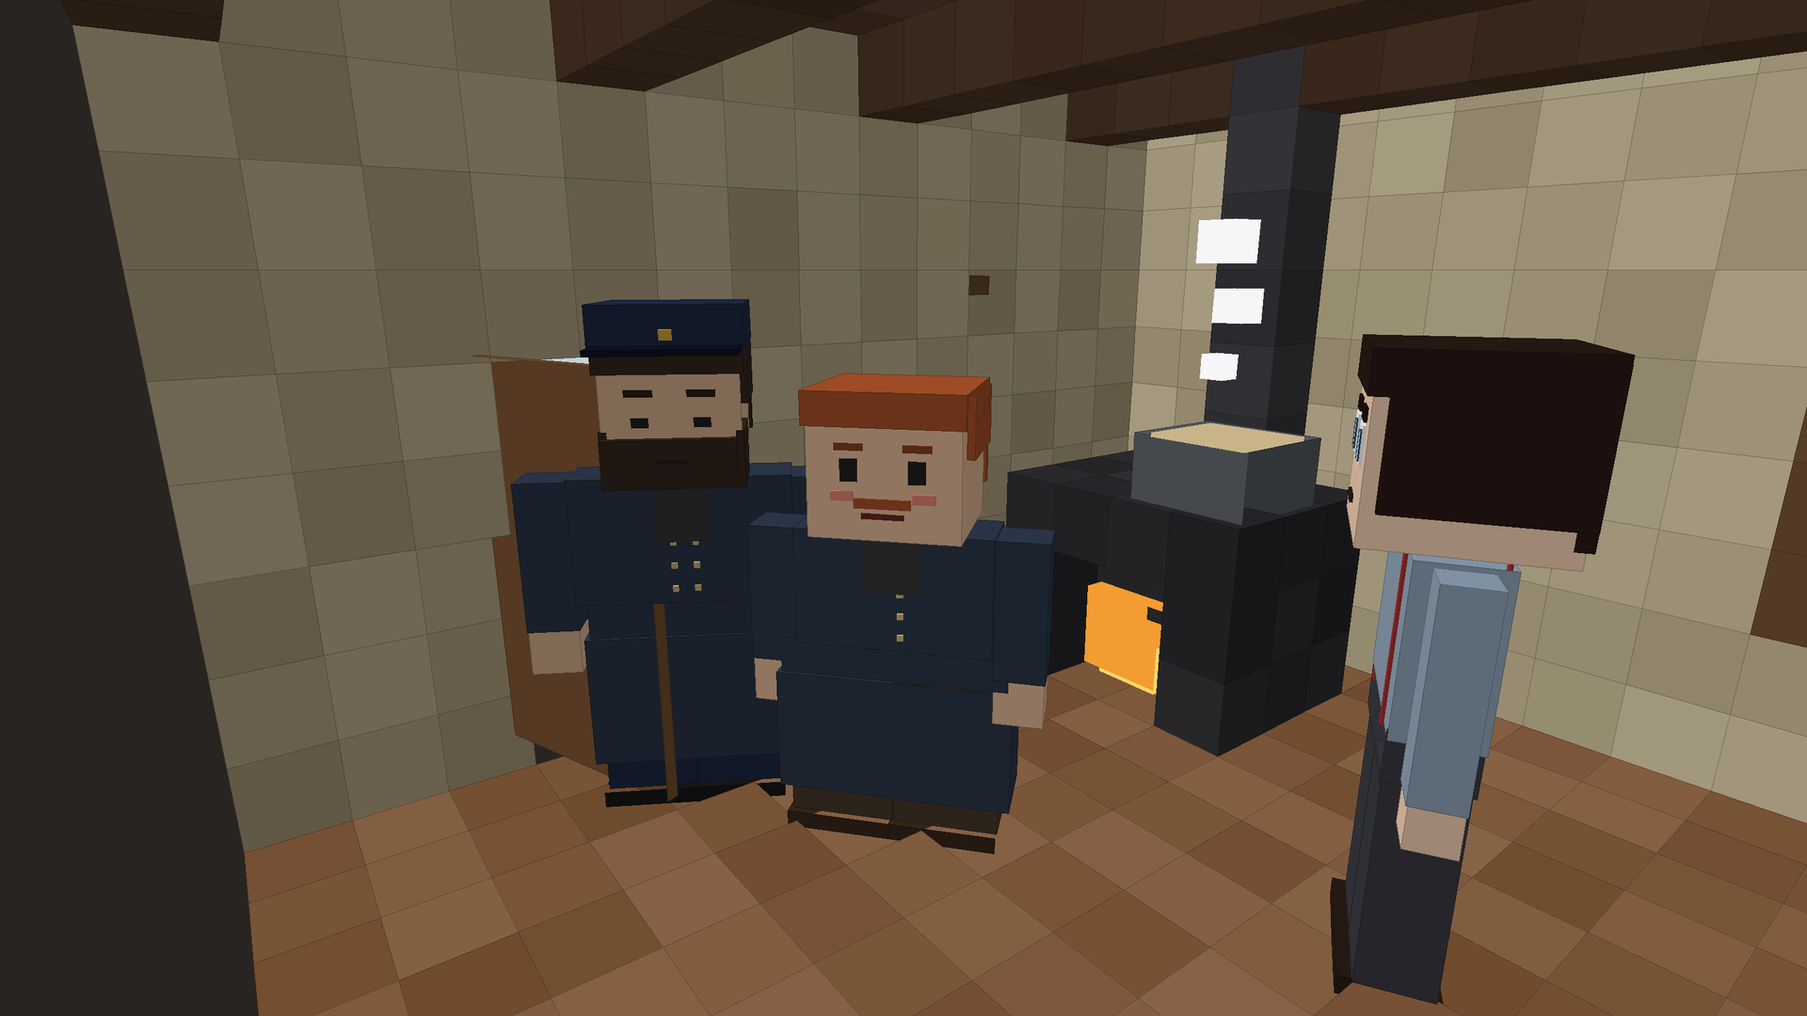
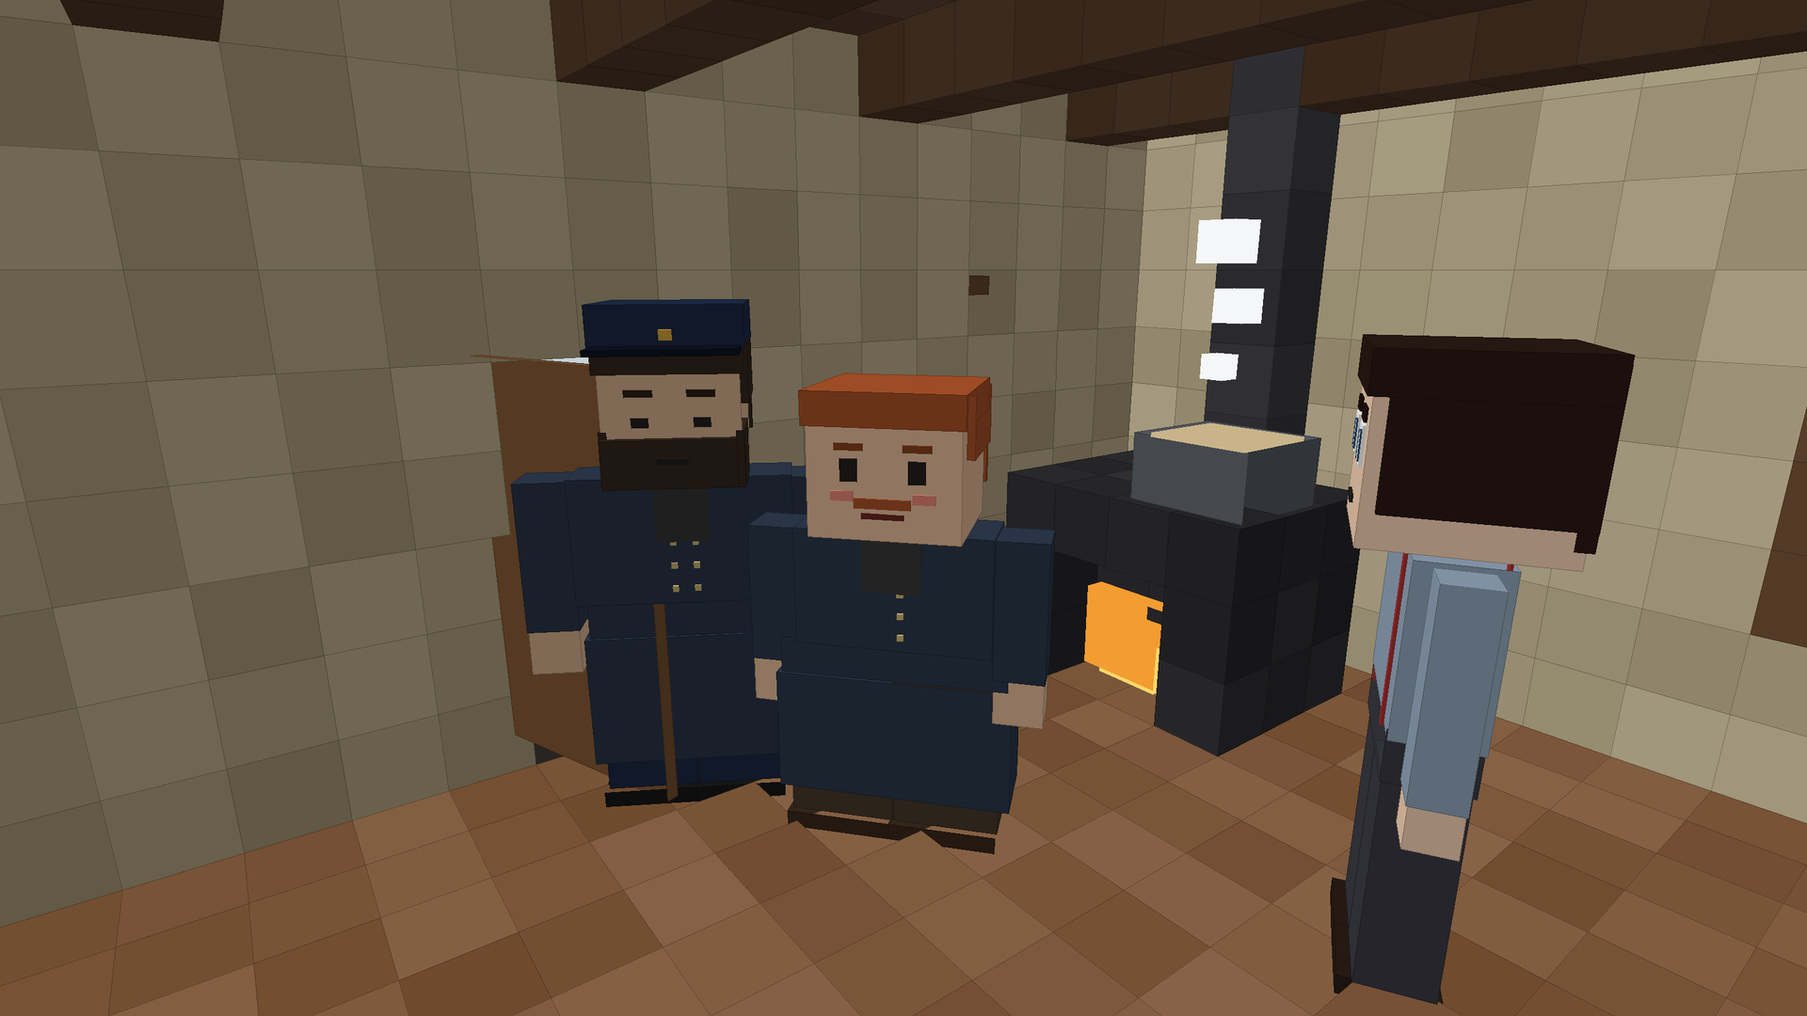
입체애니_검수.py: 입체 블록 장면 검수 규칙 + 자동 검사(떠 있음·묻힘·바다 위·등 보임·가려짐·잘림·방 밖 빈 곳·한 색 화면) + 3순간·인물 확대 그림 / 부엌 오른쪽 벽·방 넓힘, 비탈 땅 높이 따라 달리기, 인물 방향·카메라 고침
Claude-Session: https://claude.ai/code/session_01HCMiusSqCGhLJD35gTQhF1

Changed region(s): [[0.0, 0.0, 0.1562, 1.0]]

diff --git a/입체애니_검수.py b/입체애니_검수.py
@@ -1,0 +1,201 @@
+"""입체 블록 애니 — 장면 검수 규칙 + 자동 검사 (사용자 결정 2026-11-05: 장면을 확대 검수하고 고친 뒤에 영상)
+python 입체애니_검수.py <장면3D 폴더 또는 장면.json ...> [--결과 <폴더>] [--이름 c18,c19] [--규칙]
+  - 장면마다 처음·가운데·끝 3순간을 그려 <결과>/<장면>_<순간>.png, 인물마다 확대 조각 <장면>_<순간>_<인물>.png (640px 이상)
+  - 아래 '자동 검사'로 잡을 수 있는 것은 자동으로 찾아 <결과>/_입체검수.txt 에 적음 → 걸린 장면부터 크게 열어 봄
+  - 자동 검사가 '통과'여도 사람 눈 검수(RULES)는 꼭 함: 자동 검사는 숫자로 잴 수 있는 것만 봄
+  - --규칙 : 검수 규칙만 화면에 보여 줌
+  결과 폴더 기본: output/점검3D/<장면 폴더 이름>/
+
+작업 순서(필수):
+  1) 장면 설정(장면3D_설정.py) → 2) 이 검수(자동 + 확대 사람 눈) → 3) 고침 → 2)로 다시, 걸린 것이 없을 때까지
+  → 4) 2분 구간 하나만 영상으로 만들고 멈춤(render_project + 구간 멈춤) → 5) 다 만든 영상에서 몇 장면을 꺼내 고친 곳이 들어갔는지 확인
+  → 6) 나레이션을 붙여 사용자에게 보내고, 확인을 받은 뒤 다음 구간
+  · 인물·블록 그리는 코드(블록3D.py)를 고치면 이미 만든 구간도 다시 그림 (구간마다 인물 모습이 달라지지 않게)
+  · 장면 설정 파일 날짜가 바뀌면 영상 프로그램이 모든 구간을 새로 그림 — 그리기 코드만 바꿨으면 그 구간 파일(seg_*)을 지워서 다시 그리게 함
+"""
+import importlib.util
+import json
+import math
+import os
+import sys
+
+import numpy as np
+from PIL import Image
+
+HERE = os.path.dirname(os.path.abspath(__file__))
+_sp = importlib.util.spec_from_file_location("bs3d", os.path.join(HERE, "블록장면3D.py"))
+S3 = importlib.util.module_from_spec(_sp)
+_sp.loader.exec_module(S3)
+E = S3.E
+W, H = E.W, E.H
+
+# ───────────────────────── 사람 눈 검수 규칙 ─────────────────────────
+RULES = """[입체 블록 장면 검수 규칙] — 장면마다 처음·가운데·끝 3순간을 크게(1920px) 열고, 인물·사물마다 확대해서 하나씩 확인
+ ■ 인물
+  1. 발이 땅에 붙었는지: 떠 있음·땅(계단·바위)에 묻힘·바다 위를 걸음 (창밖 멀리 걷는 사람은 그 아래 땅이 있어야 함)
+  2. 얼굴: 말하는 사람이 카메라에 뒤통수만 보이지 않는지, 얼굴을 가리는 조각(귀 덮개·수염·뒷머리 덩어리)이 없는지
+  3. 머리·모자: 모자 밖으로 삐져나온 머리 점, 이마의 검은 점, 수염이 머리 옆 전체를 덮지 않는지 (수염은 턱 앞쪽만)
+  4. 소품이 대본대로인지: 젓는 사람 손의 국자는 냄비 안, 건네는 빵은 손에, 걸린 외투·빈 침대처럼 대본에 나온 물건이 보이는지
+  5. 크기: 멀리 있는 사람이 너무 작아 안 보이거나 창틀·기둥에 가리지 않는지
+  6. 캐릭터 설정과 같은지: 옷 색·대표 색·모자·고글·멜빵 (방수 외투로 갈아입어도 모자 같은 상징은 남김)
+ ■ 사물·배경
+  7. 떠 있는 건물: 등대·숙소가 땅 위에 떠 있지 않은지 (건물 자리는 평평한 땅)
+  8. 물건 모양이 그 물건으로 읽히는지: 외투(깃·소매·단추), 배(뱃머리·선실), 렌즈(빛나는 유리 + 놋쇠 테), 계단(한 칸씩), 난간(가는 막대)
+  9. 빛: 등대 빛줄기가 방 안 사람을 뚫고 지나가지 않는지 (빛줄기는 유리창 밖부터), 꺼진 난로엔 불꽃·수프·김이 없는지
+ 10. 대본의 상태와 맞는지: 멈춘 시계, 꺼진 난로, 불 꺼진 등대, 비·폭풍·해 질 녘
+ ■ 화면
+ 11. 잘림: 조명탄·파도 꼭대기·인물 머리가 화면 밖으로 나가지 않는지
+ 12. 빈 곳: 방 밖·땅 끝·바다 끝 같은 빈 공간이 보이지 않는지 (카메라는 방 안에, 땅·바다는 화면보다 넓게)
+ 13. 화면이 한 색으로 덮이지 않는지 (카메라 바로 앞 물체), 문짝·기둥이 화면을 크게 가리지 않는지
+ 14. 줄무늬·울타리처럼 보이는 것: 물결 언덕은 한 색으로 이어지게
+ 15. 움직임: 처음과 끝 순간도 봄 — 파도가 끝에서 사라지거나, 사람이 목표 자리를 지나치거나, 물건이 화면 밖으로 날아가지 않는지
+"""
+
+
+# ───────────────────────── 자동 검사 ─────────────────────────
+def ground_at(scene, x, z):
+    """그 자리 땅 높이 (모르면 None)"""
+    st = scene.get("set")
+    o = scene.get("opt", {})
+    if st == "rocks":
+        if -20 <= x < 30 and -2 <= z < 12:
+            return S3.rock_height(int(math.floor(x)), int(math.floor(z)))
+        return "sea"
+    if st == "stairs":
+        return S3.stair_h(int(round(x)))
+    if st in ("kitchen", "hook"):
+        return 0
+    if st == "lantern":
+        if -8 <= x < 8 and -8 <= z < 8:
+            return 0
+        if o.get("land") and x >= 8:
+            gx = 8 + int((x - 8) // 4) * 4
+            return -10 - (gx - 8) * 0.18
+        return "sea"
+    if st == "landing":
+        return 3 if x < 8 else 3 + (int(x) - 8) // 2
+    return None
+
+
+def inside_box(pt, b):
+    v = b.corners()
+    lo, hi = v.min(0), v.max(0)
+    return bool(np.all(pt > lo + 1e-3) and np.all(pt < hi - 1e-3))
+
+
+def recolor(boxes, i0, i1, col=(255, 0, 255)):
+    out = []
+    for k, b in enumerate(boxes):
+        if i0 <= k < i1:
+            nb = E.Box(b.p, b.s, col, b.rots, emit=True, skip=b.skip, edge=False, bias=b.bias)
+            out.append(nb)
+        else:
+            out.append(b)
+    return out
+
+
+def magenta_mask(img):
+    a = np.asarray(img).astype(int)
+    return (a[..., 0] > 200) & (a[..., 1] < 70) & (a[..., 2] > 200)
+
+
+def check_scene(path, outdir, times=(0.3, 4.0, 7.7), dur=8.0):
+    scene, cast = S3.load(path)
+    cid = os.path.splitext(os.path.basename(path))[0]
+    probs = []
+    for k, t in enumerate(times):
+        B = S3.build(scene, cast, t, dur)
+        img = S3.frame(scene, cast, t, dur)
+        img.save(os.path.join(outdir, f"{cid}_{k}.png"))
+        arr = np.asarray(img).astype(int)
+        # 화면이 거의 한 색 (카메라 바로 앞 물체가 화면을 덮음)
+        if arr.std() < 8 and not ("fade_in" in scene.get("fx", []) and t < 1.2):   # 서서히 밝아지는 첫 순간은 빼고
+            probs.append(f"{cid} {t:.1f}초: 화면이 거의 한 색 (카메라가 물체 안·바로 앞)")
+        # 방 밖 빈 곳 (실내 장면 배경색이 보임)
+        if B["mood"] not in S3.MOOD and B["mood"] != "plain":
+            bg = np.all(np.abs(arr - np.array([40, 36, 34])) < 6, axis=2).mean()
+            if bg > 0.03:
+                probs.append(f"{cid} {t:.1f}초: 방 밖 빈 곳이 화면의 {bg * 100:.0f}% 보임 (카메라를 방 안으로)")
+        # 카메라가 상자 안
+        cpos = B["cam"].pos
+        for b in B["boxes"]:
+            if not b.emit and b.s.max() < 30 and inside_box(cpos, b):
+                probs.append(f"{cid} {t:.1f}초: 카메라가 물체 안에 있음")
+                break
+        for ch in B["chars"]:
+            who = ch["who"].split(" (")[0]
+            if ch.get("exit") and t > dur * 0.6:   # 화면 밖으로 나가는 인물(장면 설정 "exit": true)은 끝부분 검사를 뺌
+                continue
+            x, y, z = ch["pos"]
+            g = ground_at(scene, x, z)
+            if g == "sea":
+                probs.append(f"{cid} {t:.1f}초: {who} 가 바다 위에 서 있음 (발밑에 땅이 없음)")
+            elif g is not None and abs(y - g) > 0.35:
+                probs.append(f"{cid} {t:.1f}초: {who} 발 높이 {y:.1f} ≠ 땅 {g:.1f} ({'떠 있음' if y > g else '땅에 묻힘'})")
+            # 말하는데 뒤돌아 있음
+            talking = any(a in ch["acts"] for a in ("talk", "shout")) and not any(a in ch["acts"] for a in ("run", "walk"))   # 뛰어나가며 외치는 뒷모습은 괜찮음
+            f = math.radians(ch["face"])
+            fv = np.array([math.sin(f), 0, math.cos(f)])
+            to_cam = cpos - np.array([x, y, z])
+            to_cam[1] = 0
+            nrm = np.linalg.norm(to_cam)
+            if talking and nrm > 1e-6 and float(np.dot(fv, to_cam / nrm)) < -0.35:   # 옆얼굴(0 근처)까지는 괜찮음
+                probs.append(f"{cid} {t:.1f}초: {who} 가 말하는데 카메라에 등을 보임")
+            # 보이는 정도·크기·잘림 (이 인물만 분홍으로 칠해 그려 봄)
+            seen = magenta_mask(E.render(recolor(B["boxes"], ch["i0"], ch["i1"]), B["cam"], bg=(0, 0, 0)))
+            alone = magenta_mask(E.render(recolor(B["boxes"][ch["i0"]:ch["i1"]], 0, 10 ** 6), B["cam"], bg=(0, 0, 0)))
+            na, ns = alone.sum(), seen.sum()
+            if na == 0:
+                probs.append(f"{cid} {t:.1f}초: {who} 가 화면에 없음 (화면 밖·카메라 뒤)")
+                continue
+            if ns / na < 0.35:
+                probs.append(f"{cid} {t:.1f}초: {who} 의 {100 - ns / na * 100:.0f}% 가 다른 물체에 가려짐")
+            ys, xs = np.nonzero(alone)
+            if xs.min() <= 0 or xs.max() >= W - 1 or ys.min() <= 0:
+                if (ys.max() - ys.min()) < H * 0.9:   # 얼굴 가까이 찍은 장면(화면을 꽉 채움)은 빼고
+                    probs.append(f"{cid} {t:.1f}초: {who} 가 화면 끝에 걸려 잘림")
+            if (ys.max() - ys.min()) < 60:
+                probs.append(f"{cid} {t:.1f}초: {who} 가 너무 작음 (키 {ys.max() - ys.min()}px)")
+            # 확대 조각 (사람 눈 검수용, 640px 이상)
+            ys2, xs2 = np.nonzero(seen if ns > 0 else alone)
+            pad = 40
+            box = (max(0, xs2.min() - pad), max(0, ys2.min() - pad), min(W, xs2.max() + pad), min(H, ys2.max() + pad))
+            crop = img.crop(box)
+            sc = max(1.0, 640 / max(1, crop.height))
+            crop.resize((int(crop.width * sc), int(crop.height * sc)), Image.NEAREST).save(os.path.join(outdir, f"{cid}_{k}_{who}.png"))
+    return probs
+
+
+def main():
+    a = sys.argv[1:]
+    if "--규칙" in a:
+        print(RULES)
+        return
+    only = set(a[a.index("--이름") + 1].split(",")) if "--이름" in a else None
+    paths = []
+    for x in [x for x in a if not x.startswith("--") and (a.index(x) == 0 or a[a.index(x) - 1] not in ("--결과", "--이름"))]:
+        if os.path.isdir(x):
+            paths += sorted(os.path.join(x, f) for f in os.listdir(x) if f.endswith(".json"))
+        elif x.endswith(".json"):
+            paths.append(x)
+    paths = [p for p in paths if (not only or os.path.splitext(os.path.basename(p))[0] in only)
+             and json.load(open(p, encoding="utf-8")).get("engine") == "3d"]
+    if not paths:
+        print("검사할 입체 장면이 없음")
+        return
+    out = a[a.index("--결과") + 1] if "--결과" in a else os.path.join(HERE, "output", "점검3D", os.path.basename(os.path.dirname(os.path.abspath(paths[0]))))
+    os.makedirs(out, exist_ok=True)
+    allp = []
+    for p in paths:
+        pr = check_scene(p, out)
+        allp += pr
+        print(os.path.basename(p), "→", "통과" if not pr else f"{len(pr)}건")
+    rep = os.path.join(out, "_입체검수.txt")
+    with open(rep, "w", encoding="utf-8") as f:
+        f.write(f"자동 검사: 장면 {len(paths)}개, 걸린 것 {len(allp)}건\n\n" + ("\n".join(allp) if allp else "(자동 검사로 걸린 것 없음)") + "\n\n" + RULES)
+    print("결과:", rep, f"({len(allp)}건)")
+    print("※ 자동 검사가 통과여도 그림을 크게 열어 규칙대로 사람 눈 검수를 함")
+
+
+if __name__ == "__main__":
+    main()

diff --git a/연재/플래넌등대/장면3D_설정.py b/연재/플래넌등대/장면3D_설정.py
@@ -33,24 +33,24 @@ S = {
  "c11": {"set": "rocks", "opt": {"mood": "storm"}, "cam": {"pos": [2, 6, 17], "look": [5, 3, 3], "fov": 46, "move": [1, 0, -2]}, "chars": [ch(H, [5, 5], 55, ["blink", "breath", "shiver"])], "fx": ["rain"]},
  "c12": {"set": "rocks", "opt": {"mood": "night"}, "cam": {"pos": [7, 6, 20], "look": [7, 3, 4], "fov": 46},
          "chars": [ch(H, [3, 6], 80), ch(D, [15, 6], -90, ["walk", "blink", "talk"], to=[7, 6])], "fx": ["rain"]},
- "c13": {"set": "kitchen", "cam": KCAM, "chars": [ch(M, [6.1, 2.9], -90, ["blink", "breath", "stir", "talk"]), ch(D, [21.0, 5.6], -15), ch(H, [17.2, 5.4], 10)]},
+ "c13": {"set": "kitchen", "cam": KCAM, "chars": [ch(M, [6.1, 2.9], -80, ["blink", "breath", "stir", "talk"]), ch(D, [21.0, 5.6], -15), ch(H, [17.2, 5.4], 10)]},
  "c14": {"set": "kitchen", "cam": KCAM, "chars": [ch(A, [20.0, 5.6], -50, ["blink", "breath", "reach"], hold="#d8b27a"), ch(H, [16.6, 5.4], 40)]},
  # ── 2구간 (2~4분) ──
  "c18": {"set": "lantern", "opt": {"mood": "night"}, "cam": {"pos": [6.5, 4.6, 5.5], "look": [2, 4.3, -1], "fov": 40, "move": [-0.5, 0, -0.5]},
          "chars": [ch(A, [3.4, -0.3], 40, ["blink", "breath", "talk"])]},
  "c19": {"set": "lantern", "opt": {"mood": "night", "light": "flicker"}, "cam": {"pos": [0, 5.5, 13], "look": [0, 3.2, 0], "fov": 46, "move": [1, -0.3, -1.5]},
          "chars": [ch(A, [-3.3, 1.2], 70, ["blink", "breath", "reach", "talk"]), ch(H, [3.4, 1.6], -60)]},
- "c26": {"set": "kitchen", "opt": {"mood": "grey"}, "cam": {"pos": [20, 4.9, 4.2], "look": [12.5, 4.2, 1.2], "fov": 46, "move": [-1, 0, 0]},
-         "chars": [ch(D, [13, 2.2], 200, ["blink", "breath", "talk"])]},
+ "c26": {"set": "kitchen", "opt": {"mood": "grey"}, "cam": {"pos": [21.5, 5.4, 8.5], "look": [12.5, 4.0, 1.0], "fov": 46, "move": [-1, 0, -0.5]},
+         "chars": [ch(D, [13, 2.2], 150, ["blink", "breath", "talk"])]},
  "c27": {"set": "kitchen", "opt": {"door": "open", "hook": "empty"}, "cam": {"pos": [11, 6.0, 13.5], "look": [3, 3.4, 7.5], "fov": 58},
          "chars": [ch(D, [1.6, 9.5], 60, ["blink", "breath", "talk"], over=OIL), ch(M, [3.6, 8.0], 40, LIVE, over=OIL), ch(A, [8.0, 5.8], -60)]},
  "c30": {"set": "island", "opt": {"mood": "dusk", "lamp": "off", "swell": True}, "cam": {"pos": [8, 12, 44], "look": [8, 6, -30], "fov": 44, "move": [0, 0, -3]}},
  "c31": {"set": "lantern", "opt": {"mood": "dusk", "light": "off"}, "cam": {"pos": [2.0, 5.4, 6.0], "look": [2.0, 5.1, 0], "fov": 40, "move": [0, 0, -0.6]},
          "chars": [ch(A, [2.0, 1.0], 0, ["blink", "shiver", "talk"], over=PALE)]},
  "c32": {"set": "kitchen", "opt": {"door": "open", "hook": "coat", "mood": "storm"}, "cam": {"pos": [12, 6.0, 13.5], "look": [2, 3.4, 6.5], "fov": 60},
-         "chars": [ch(A, [15, 7.5], -100, ["run", "talk"], to=[-0.5, 9.5], speed=1.2)]},
+         "chars": [ch(A, [10, 8.5], -100, ["run", "talk"], to=[-3.5, 9.5], speed=1.1, exit=True)]},
  "c33": {"set": "lantern", "opt": {"mood": "storm", "light": "on", "land": True}, "cam": {"pos": [1.5, 5.6, 11.5], "look": [15, -3.5, -2], "fov": 60},
-         "chars": [ch(H, [5.2, 4.2], 90, ["shout", "blink"]), ch(A, [12, 3.5], 75, ["run"], y=-10 - (12 - 8) * 0.18, y_to=-10 - (28 - 8) * 0.18, to=[28, 7.5], speed=1.0)], "fx": ["rain"]},
+         "chars": [ch(H, [5.2, 4.2], 60, ["shout", "blink"]), ch(A, [16, 4], 75, ["run"], y=-10 - (12 - 8) * 0.18, y_to=-10 - (28 - 8) * 0.18, to=[28, 7.5], speed=1.0)], "fx": ["rain"]},
  "c34": {"set": "wave", "cam": {"pos": [-10, 12, 44], "look": [2, 9, 0], "fov": 52}},
  "c35": {"set": "wave", "opt": {"silhouette": True}, "cam": {"pos": [19, 19, 9], "look": [5, 12.5, -0.5], "fov": 50, "move": [-2, 0, -1]}},
  "c36": {"set": "landing", "opt": {"mood": "storm", "bent": True, "wet": True}, "cam": {"pos": [-6, 9, 22], "look": [4, 3, 2], "fov": 48, "move": [2, -1, -2]}},

diff --git a/블록장면3D.py b/블록장면3D.py
@@ -411,13 +411,15 @@ def pose3d(acts, t, seed):
     return p
 
 
-def frame(scene, cast, t, dur=None):
-    """장면의 t 초 그림 (PIL, 1920×1080)"""
+def build(scene, cast, t, dur=None):
+    """장면의 t 초 모습을 상자 목록·카메라로 (검수 프로그램 입체애니_검수.py 도 씀)
+    돌려줌: {"boxes", "cam", "mood", "o", "fx", "pr", "chars": [{"who", "pos": (x, y, z), "face", "acts", "i0", "i1", "talk"}]}"""
     dur = dur or scene.get("dur", 8.0)
     pr = min(1.0, max(0.0, t / max(0.1, dur)))
     o = scene.get("opt", {})
     boxes, mood = SETS[scene.get("set", "plain")](t, pr, o)
     boxes = list(boxes)
+    info = []
     for i, ch in enumerate(scene.get("chars", [])):
         c = {**cast[ch["who"]], **ch.get("over", {})}
         ax, az = ch.get("at", [0, 0])
@@ -435,12 +437,16 @@ def frame(scene, cast, t, dur=None):
             ch = {k_: v_ for k_, v_ in ch.items() if k_ != "y_to"}
         if ch.get("y_to") is not None:
             y = y + (ch["y_to"] - y) * min(1.0, pr * ch.get("speed", 1.0))
+        if scene.get("set") == "lantern" and o.get("land") and ax >= 8:   # 창밖 비탈: 그 자리 땅 높이에 (묻히거나 뜨지 않게)
+            y = -10 - (8 + int((ax - 8) // 4) * 4 - 8) * 0.18
         ps = pose3d(acts, t, i * 1.7 + 0.3)
         if "stir" in acts:
             ps["ladle"] = True
         if ch.get("hold"):
             ps["hold"] = ch["hold"]
+        i0 = len(boxes)
         boxes += person(c, (ax, y, az), face=face, pose=ps, scale=ch.get("scale", 1.0))
+        info.append({"who": ch["who"], "pos": (ax, y, az), "face": face, "acts": acts, "i0": i0, "i1": len(boxes), "scale": ch.get("scale", 1.0), "exit": ch.get("exit", False)})
     fx = scene.get("fx", [])
     if "rain" in fx:
         cp = scene["cam"]["pos"]
@@ -452,6 +458,13 @@ def frame(scene, cast, t, dur=None):
     cm = scene.get("cam", {"pos": [12, 6, 24], "look": [12, 3, 0]})
     mv = np.array(cm.get("move", [0, 0, 0]), float) * (0.5 - 0.5 * math.cos(math.pi * pr))
     cam = Camera(np.array(cm["pos"], float) + mv, np.array(cm["look"], float) + mv * cm.get("look_follow", 1.0), fov=cm.get("fov", 40))
+    return {"boxes": boxes, "cam": cam, "mood": mood, "o": o, "fx": fx, "pr": pr, "chars": info}
+
+
+def frame(scene, cast, t, dur=None):
+    """장면의 t 초 그림 (PIL, 1920×1080)"""
+    B_ = build(scene, cast, t, dur)
+    boxes, cam, mood, o, fx, pr = B_["boxes"], B_["cam"], B_["mood"], B_["o"], B_["fx"], B_["pr"]
     md = MOOD.get(mood)
     if md:
         img = E.render(boxes, cam, sky=(md[0], md[1]))

diff --git a/블록3D.py b/블록3D.py
@@ -330,10 +330,11 @@ def shade_hex(h, f):
 # ───────────────────────── 부엌 (1900년 등대 숙소) ─────────────────────────
 def kitchen(t):
     vx = Voxels()
-    X, Z, HH = 26, 14, 9
+    X, Z, HH = 26, 26, 9                                          # 방은 카메라 뒤(z 24)까지 (방 밖 빈 곳이 보이지 않게)
     vx.fill(0, X, -1, 0, 0, Z, "#8a6141", 14)                    # 나무 바닥
     vx.fill(0, X, 0, HH, -1, 0, "#c9bb98", 16)                   # 뒤 돌벽
     vx.fill(-1, 0, 0, HH, -1, Z, "#bfb08c", 16)                  # 왼쪽 벽
+    vx.fill(X, X + 1, 0, HH, -1, Z, "#bfb08c", 16)               # 오른쪽 벽
     for x in range(10, 16):                                       # 창문 (구멍 + 창틀)
         for y in range(3, 7):
             vx.v.pop((x, y, -1), None)
@@ -343,7 +344,7 @@ def kitchen(t):
     for y in range(2, 8):
         vx.put(9, y, -1, "#6b4a30", j=6)
         vx.put(16, y, -1, "#6b4a30", j=6)
-    vx.fill(-1, X, HH, HH + 1, -1, Z, "#5a4030", 10)            # 나무 천장
+    vx.fill(-1, X + 1, HH, HH + 1, -1, Z, "#5a4030", 10)        # 나무 천장
     for z in range(1, Z, 4):                                      # 천장 들보
         vx.fill(0, X, HH - 1, HH, z, z + 1, "#4a3424", 6)
     # 무쇠 난로 + 굴뚝

diff --git a/CLAUDE.md b/CLAUDE.md
@@ -166,5 +166,5 @@
   대본 길이 확인: 대본 3,300자는 나레이션 약 6분 45초 (1분 ≈ 490자) → 10분이면 대본 약 4,900자
 - **미스터리 사건 상상 애니**(사용자 결정 2026-11-05): 실제 미스터리 사건에 상상을 더한 10분 단편, 안내자 소년 하람이 매 편 나옴. 그림은 **입체 블록 세상**(마인크래프트처럼, 단 블록 무늬·인물은 모두 오리지널 — `블록3D.py` 엔진·`블록장면3D.py` 장면, GPU 없이 2분 구간 약 11분). 첫 편 `연재/플래넌등대/기획.md`
   · 영상은 **2분 구간씩** 만들고 사용자 확인 뒤 다음 구간 (사용자 결정 2026-11-05)
-  · **장면 확대 검수 필수**(사용자 결정 2026-11-05): 구간을 만들기 전에 장면마다 처음·가운데·끝 3순간을 크게 열고 사물마다 확대 — 떠 있는 건물·사람, 땅에 묻힌 발, 바다 위를 걷는 사람, 얼굴을 가리는 조각(귀 덮개·수염), 모자 밖으로 삐져나온 머리, 소품이 대본대로인지(국자가 냄비 안, 손에 든 빵, 빈 침대), 화면 밖으로 잘리는 것(조명탄), 땅 끝이 보이는지 → 고친 뒤에 영상
+  · **장면 확대 검수 필수**(사용자 결정 2026-11-05): 규칙·자동 검사는 **`입체애니_검수.py`** (규칙 보기 `--규칙`) — 구간을 만들기 전에 `python 입체애니_검수.py <장면3D 폴더>` → `output/점검3D/.../_입체검수.txt`(떠 있음·묻힘·바다 위·등 보임·가려짐·잘림·방 밖 빈 곳·한 색 화면) + 장면별 3순간·인물 확대 그림을 열어 사람 눈 검수 → 고친 뒤에 영상
 - 에세이·연재(《엄마의 텃밭》, 《두 번째 새벽》 등)는 그 폴더의 `기획.md` 를 따름
